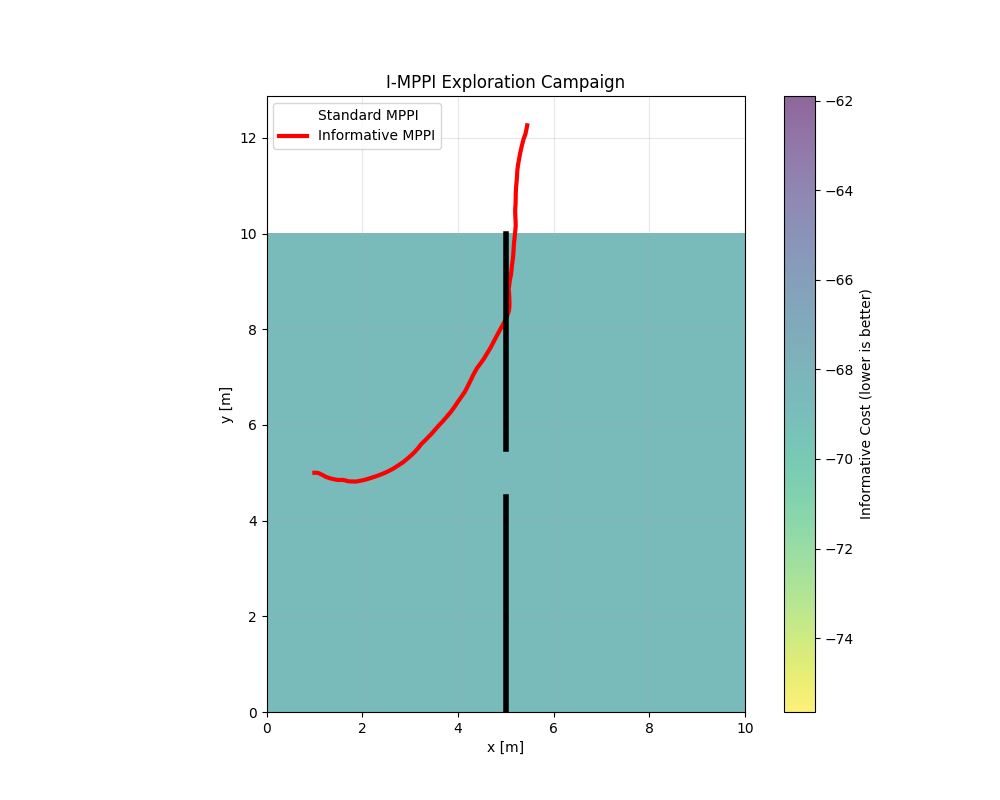
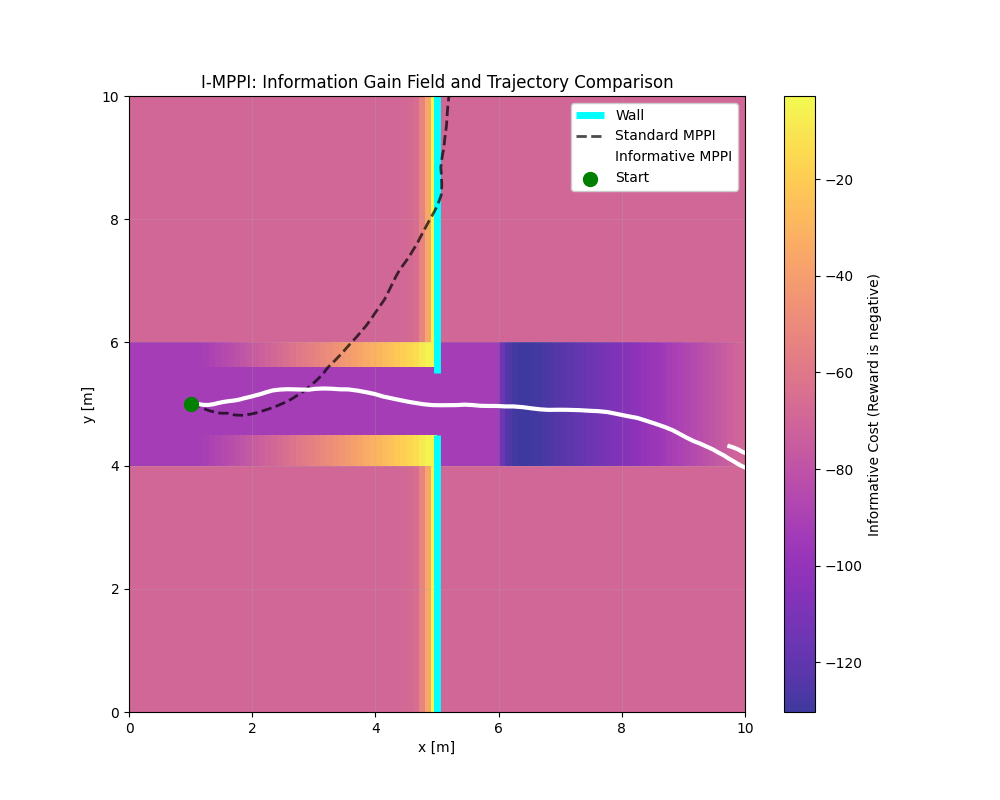
fix(i_mppi): correct 2D raycasting height and update campaign results
This commit fixes:
- rz height in FSMICost was out-of-bounds for 2D maps, leading to uniform cost fields.
- Updated simulation trajectories and heatmap visualization.
- Refined documentation text and imagery for I-MPPI exploration results.

diff --git a/scripts/visualize_imppi.py b/scripts/visualize_imppi.py
@@ -15,34 +15,36 @@ def plot_everything():
     df_info = pd.read_csv(path + 'info_traj.csv')
     
     # Load map
-    # info_map.csv is a matrix
     map_data = np.loadtxt(path + 'info_map.csv', delimiter=',')
-    # The costs are lambda_info * IG + control_cost. 
-    # Since lambda_info=50, and total_info is subtracted, map_data is mostly negative.
-    # We want to visualize Information Gain, which is - (cost - control_cost) / lambda_info
-    # But for a quick heatmap, just plot the cost values.
     
     fig, ax = plt.subplots(figsize=(10, 8))
     
     # Heatmap of Info Gain (Cost)
     # Origin is (0,0), resolution 0.1, 100x100
-    im = ax.imshow(map_data, extent=[0, 10, 0, 10], origin='lower', cmap='viridis_r', alpha=0.6)
-    fig.colorbar(im, ax=ax, label='Informative Cost (lower is better)')
+    # Map data is (y, x) because of how it was saved in C++
+    im = ax.imshow(map_data, extent=[0, 10, 0, 10], origin='lower', cmap='plasma', alpha=0.8)
+    fig.colorbar(im, ax=ax, label='Informative Cost (Reward is negative)')
 
-    # Trajectories
-    ax.plot(df_std['x'], df_std['y'], 'w--', label='Standard MPPI', linewidth=2)
-    ax.plot(df_info['x'], df_info['y'], 'r-', label='Informative MPPI', linewidth=3)
-    
-    # Obstacles
+    # Obstacles (Ground Truth)
     # Wall at x=5, with opening at y=[4.5, 5.5]
-    ax.plot([5, 5], [0, 4.5], 'k-', linewidth=4)
-    ax.plot([5, 5], [5.5, 10], 'k-', linewidth=4)
+    ax.vlines(5.0, 0, 4.5, colors='cyan', linestyles='-', linewidth=5, label='Wall')
+    ax.vlines(5.0, 5.5, 10.0, colors='cyan', linestyles='-', linewidth=5)
+    
+    # Trajectories
+    ax.plot(df_std['x'], df_std['y'], 'k--', label='Standard MPPI', linewidth=2, alpha=0.7)
+    ax.plot(df_info['x'], df_info['y'], 'w-', label='Informative MPPI', linewidth=3)
+    
+    # Start point
+    ax.scatter(df_info['x'].iloc[0], df_info['y'].iloc[0], c='green', s=100, label='Start', zorder=5)
     
     ax.set_xlabel('x [m]')
     ax.set_ylabel('y [m]')
-    ax.set_title('I-MPPI Exploration Campaign')
-    ax.legend(loc='upper left')
-    ax.grid(True, alpha=0.3)
+    ax.set_title('I-MPPI: Information Gain Field and Trajectory Comparison')
+    ax.legend(loc='upper right', framealpha=1.0)
+    ax.grid(True, alpha=0.2)
+    
+    ax.set_xlim(0, 10)
+    ax.set_ylim(0, 10)
     
     output_path = 'docs/_media/imppi_campaign.png'
     plt.savefig(output_path)
